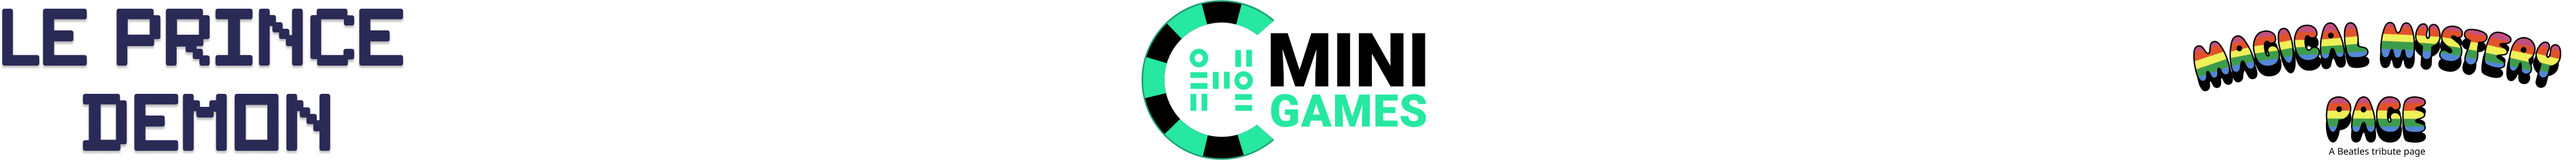
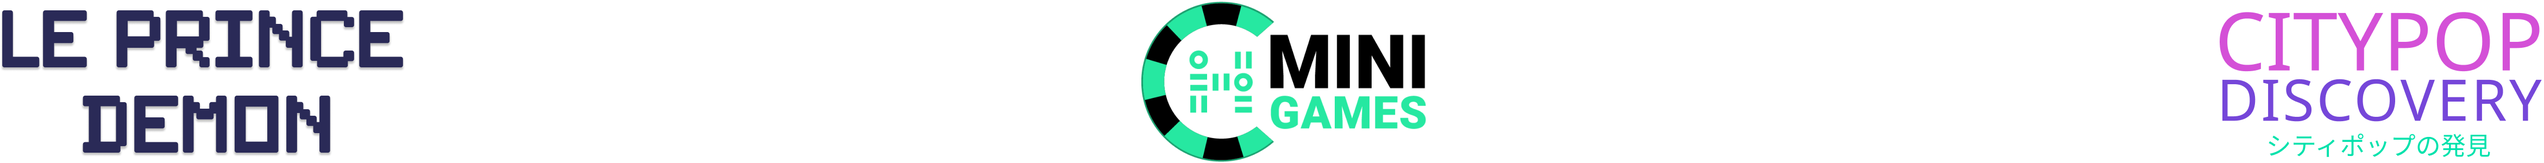
Replacing MMP w/ CTPD

diff --git a/portfolio/portfolio.html b/portfolio/portfolio.html
@@ -56,12 +56,12 @@
                 Concernant le site en lui-même, j'ai écrit une grande partie du code HTML / CSS du site et coordiné l'équipe correspondante.
             </div>
             <div id="description_txt3" class="description_txt">
-                Magical Mystery Page est un projet en cours de développement, mon second projet personnel après ce site. <br>
-                C'est une page hommage à l'album Magical Mystery Tour des Beatles. <br><br>
+                Citypop Discovery est un projet en cours de développement, mon second projet personnel après ce site. <br>
+                C'est un onepage responsive hommage au genre revenu à la mode suite à l'essor de l'Aesthetic. <br><br>
                 Ce projet personnel a pour but de m'entraîner à deux pratiques : <br>
                 - L'utilisation des frameworks Vue et Bootstrap,<br>
-                - Faire des animations CSS au scroll et m'entraîner à la parallaxe.<br><br>
-                Il y aura donc une animation par musique, sur chaque thèmes respectifs. Vous pourrez suivre le développement de ce projet à travers mon premier DevLog dédié à la confection du site.<br><br>
+                - Faire des animations CSS au scroll.<br><br>
+                Le site aura donc le but d'initier au genre de la Citypop et à ses codes, avec un historique et la présentation d'albums.<br><br>
                 La mise en ligne de ce site est prévue pour Avril 2021.
             </div>
             <div class="description-images">

diff --git a/portfolio/portfolio.js b/portfolio/portfolio.js
@@ -155,7 +155,7 @@ rightarrow.addEventListener("click", function(){
         timelineindicator.classList.add("horizTranslate2")
         timelineindicator.style.left = "250px"
         date.innerHTML = "Avril 2021"
-        projectname.innerHTML = "Magical Mystery Page"
+        projectname.innerHTML = "Citypop Discovery"
         projectlanguages.src = "../Images/MMP_language.svg"
         rightbutton.src = "../Images/Coming_Soon_button.svg"
         rightbuttonlink.href = ""
@@ -214,7 +214,7 @@ leftarrow.addEventListener("click", function(){
         timelineindicator.classList.add("horizTranslate2")
         timelineindicator.style.left = "250px"
         date.innerHTML = "Avril 2021"
-        projectname.innerHTML = "Magical Mystery Page"
+        projectname.innerHTML = "Citypop Discovery"
         projectlanguages.src = "../Images/MMP_language.svg"
         rightbutton.src = "../Images/Coming_Soon_button.svg"
         rightbuttonlink.href = ""
@@ -295,7 +295,7 @@ leftbutton.addEventListener("click", function(){
         img3.src = "../Images/HMG_S3.png"
     }
     if(position == 2){
-        description_logo.src = "../Images/MMP_png.png"
+        description_logo.src = "../Images/CTPD.svg"
         description_txt1.style.display = "none"
         description_txt2.style.display = "none"
         description_txt3.style.display = "block"

diff --git a/portfolio/portfolio.css b/portfolio/portfolio.css
@@ -477,7 +477,7 @@ footer{
         grid-area: ProjectImage; 
         position: relative;
         top: 5%;
-        left: 1585px ;
+        left: 1540px ;
         height: 235.25px;
         justify-self: center;
         overflow: hidden;
@@ -490,7 +490,7 @@ footer{
         -ms-transition: 1s;
         -o-transition: 1s;
         transition: 1s;
-        left: 1585px ;
+        left: 1540px ;
         filter: blur(1px);
     }
     
@@ -501,7 +501,7 @@ footer{
         -ms-transition: 1s;
         -o-transition: 1s;
         transition: 1s;
-        left: 0px ;
+        left: -20px ;
         filter: blur(1px);
     }
     
